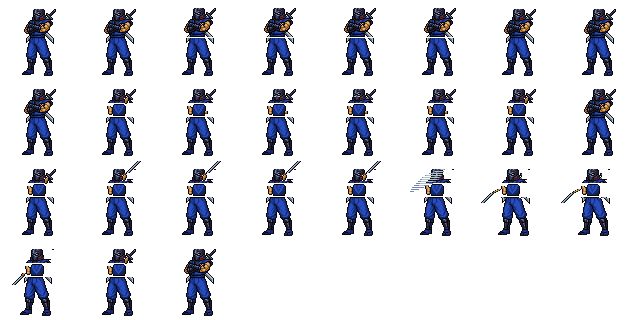
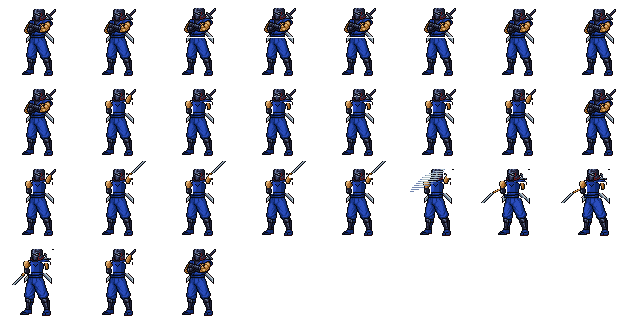
Mike's ninja: proper thick arms (bare upper arm + glove) and a connected chest in the unfolded beats
Claude-Session: https://claude.ai/code/session_0156S23pwVB8PAo3CNfbv2Nz

diff --git a/tools/sf/mike_ninja/frames.py b/tools/sf/mike_ninja/frames.py
@@ -62,49 +62,71 @@ def breathe(k):
 
 
 # ------------------------------------------------------------------ the open-arms torso
-# the crossed arms are replaced by the suit's chest and two straight arms (overlays in sprite rows 14-28)
-CHEST = [R(s) for s in [
-    "...kkkkkkkkkk....",
-    "..kffhhffhhffk...",
-    "..kffhhffhhffak..",
-    ".kaffhhfhhffaak..",
-    ".kaffhhfhhffaak..",
-    ".kaaffhhhffaaak..",
-    ".kaaffhhhffaaak..",
-    ".kaaaffhffaaaek..",
-    ".kaaaafffaaaeek..",
-    ".kaaaaafaaaeeek..",
-    "..kaaaaaaaeeek...",
-    "..kkkkkkkkkkkk...",
+# The crossed arms (sprite rows 13-23, cols 3-29) are erased; the neck and shoulder tops (rows 10-12) stay.
+# Over the gap: the suit's chest, a thick bare near arm ending in the dark glove, and the far arm.
+CHEST = [R(s) for s in [          # stamped at sprite (9, 13)
+    "kkffhhhhhaakk..",
+    "kffffhhhhhaaak.",
+    "kfffkhhhkhaaaak",
+    "kffffkhkhhaaaak",
+    "kfffffkhhhaaaak",
+    "kffffhhhhhaaaak",
+    "kffffhhhhhaaaak",
+    ".kfffhhhhhaaak.",
+    ".kfffhhhhhaaak.",
+    ".kffhhhhhhaaak.",
+    ".kkkkkkkkkkkkk.",
 ]]
-ARM_DOWN_NEAR = [R(s) for s in [          # the near arm hanging, fist by the hip
-    "kcjk",
-    "kcjck",
-    "kccjck",
-    ".kcjck",
-    ".kcjck",
-    ".kcclk",
-    ".kjjck",
-    ".kcclk",
-    "..kkk.",
+ARM_DOWN_NEAR = [R(s) for s in [  # stamped at sprite (2, 13): bare upper arm from the shoulder, glove at the hip
+    ".kjjck.",
+    "kjjjcck",
+    "kjjcclk",
+    "kjcccllk",
+    "kjcccllk",
+    ".kccllk.",
+    ".kcclk..",
+    ".keeek..",
+    ".keeeek.",
+    ".kdeeek.",
+    ".kdeeek.",
+    ".kkeeek.",
+    "..kkkk..",
 ]]
-ARM_UP_FAR = [R(s) for s in [             # the far arm reaching up over the shoulder to the hilt
-    ".kjck",
-    "kjcck",
+ARM_UP_FAR = [R(s) for s in [     # stamped at sprite (23, 6): the far arm raised over the shoulder to the hilt
+    "...kjck",
+    "..kjcck",
+    ".kjcclk",
+    ".kjcclk",
+    "kjccllk",
+    "kjcclk.",
+    "kccllk.",
+    ".kcck..",
+    ".kkkk..",
+]]
+ARM_DOWN_FAR = [R(s) for s in [   # the far arm hanging behind the far side of the chest
+    "kcck",
     "kcclk",
-    "kclk.",
-    "kclk.",
-    ".kk..",
+    "kcclk",
+    ".kclk",
+    ".kclk",
+    ".kllk",
+    ".kkk.",
 ]]
 
 
-def open_torso(g, dx=0, dy=0):
-    """erase the crossed arms and lay the open chest + arms"""
-    g.clear(X_OFF + dx + 2, TOP + dy + ARM_ROWS[0], X_OFF + dx + 32, TOP + dy + ARM_ROWS[1])
+def open_torso(g, dx=0, dy=0, far="up"):
+    """erase the crossed arms and lay the open chest + arms; far = 'up' (reaching) or 'down'"""
+    g.clear(X_OFF + dx + 2, TOP + dy + 13, X_OFF + dx + 30, TOP + dy + 24)
     for i, row in enumerate(CHEST):
-        P(g, 15 + i, 9, row, dx, dy)
+        P(g, 13 + i, 9, row, dx, dy)
     for i, row in enumerate(ARM_DOWN_NEAR):
-        P(g, 17 + i, 5, row, dx, dy)
+        P(g, 12 + i, 3, row, dx, dy)
+    if far == "up":
+        for i, row in enumerate(ARM_UP_FAR):
+            P(g, 6 + i, 23, row, dx, dy)
+    else:
+        for i, row in enumerate(ARM_DOWN_FAR):
+            P(g, 14 + i, 24, row, dx, dy)
 
 
 def blade(g, x, y, n, step, dx=0, dy=0):
@@ -120,22 +142,18 @@ def blade(g, x, y, n, step, dx=0, dy=0):
 def reach():
     """beat 2: arms unfold; the far hand goes up over the shoulder to the hilt"""
     g = body()
-    open_torso(g)
-    for i, row in enumerate(ARM_UP_FAR):
-        P(g, 9 + i, 22, row)
+    open_torso(g, far="up")
     return g.tidy()
 
 
 def draw_high():
     """beat 3: the sword comes off the back, raised up and behind the head"""
     g = body()
-    open_torso(g)
+    open_torso(g, far="up")
     # the back sheath now empty: the little hilt that stuck up behind the head is gone
-    g.clear(X_OFF + 24, TOP + 1, X_OFF + 34, TOP + 10)
-    for i, row in enumerate(ARM_UP_FAR):
-        P(g, 6 + i, 20, row)
-    P(g, 5, 20, R("kllk")); P(g, 4, 21, R("kllk"))               # the hilt in the hand
-    blade(g, 24, 3, 12, (1, -1))                            # blade up-right
+    g.clear(X_OFF + 27, TOP + 1, X_OFF + 34, TOP + 9)
+    P(g, 5, 26, R("kllk")); P(g, 4, 27, R("kllk"))               # the hilt in the raised hand
+    blade(g, 29, 3, 12, (1, -1))                                 # blade up-right
     return g.tidy()
 
 
@@ -148,8 +166,8 @@ SMEAR = [(y, x, R(t)) for y, x, t in [  # a wedge sweeping from over the head do
 
 def smear():
     g = body(dx=-2)
-    open_torso(g, dx=-2)
-    g.clear(X_OFF + 22, TOP + 1, X_OFF + 32, TOP + 10)
+    open_torso(g, dx=-2, far="up")
+    g.clear(X_OFF + 25, TOP + 1, X_OFF + 34, TOP + 9)
     for y, x, t in SMEAR:
         P(g, y + 6, x, t, -2)
     return g.tidy()
@@ -159,8 +177,8 @@ def slash():
     """beat 5: full extension — the torso leans in, the blade ends low in front"""
     g = body(dx=-4)
     g.shift_region(0, TOP, BOX, TOP + 29, -2, 0)             # the upper body leans toward the foe
-    open_torso(g, dx=-6)
-    g.clear(X_OFF + 20, TOP + 1, X_OFF + 30, TOP + 10)
+    open_torso(g, dx=-6, far="down")
+    g.clear(X_OFF + 21, TOP + 1, X_OFF + 32, TOP + 9)
     # the far arm swung down and forward past the near side
     P(g, 20, 1, R("kcjk"), -6); P(g, 21, -1, R("kjcck"), -6); P(g, 22, -3, R("kcclk"), -6); P(g, 23, -4, R("kllk"), -6)
     blade(g, -6, 24, 10, (-1, 1), dx=-6)                    # blade down-left
@@ -169,8 +187,8 @@ def slash():
 
 def recover():
     g = body(dx=-2)
-    open_torso(g, dx=-2)
-    g.clear(X_OFF + 22, TOP + 1, X_OFF + 32, TOP + 10)
+    open_torso(g, dx=-2, far="down")
+    g.clear(X_OFF + 25, TOP + 1, X_OFF + 34, TOP + 9)
     P(g, 24, 2, R("kcjk"), -2); P(g, 25, 1, R("kcck"), -2); P(g, 26, 1, R("kllk"), -2)
     blade(g, 0, 27, 9, (-1, 1), dx=-2)
     return g.tidy()
@@ -178,9 +196,7 @@ def recover():
 
 def select_frames():
     a = body(); b = reach()
-    c = body(); open_torso(c)
-    for i, row in enumerate([R("kjck"), R("kcck"), R("kllk")]):
-        P(c, 22 + i, 22, row)
+    c = body(); open_torso(c, far="down")
     # eye flash: the visor slit glints
     d = c.copy(); P(d, 7, 12, R("bb")); P(d, 7, 16, R("bb"))
     return [a, b, c, d, d, c, b, a]
